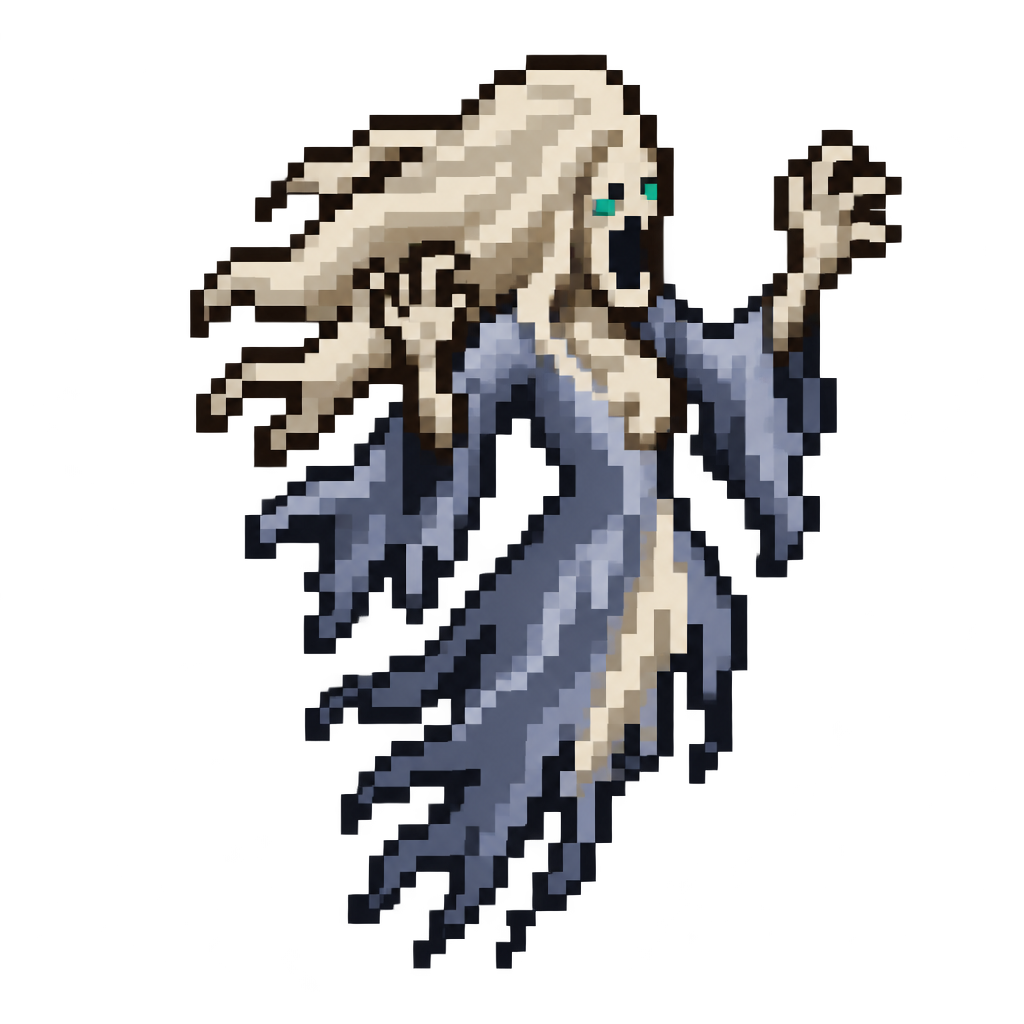
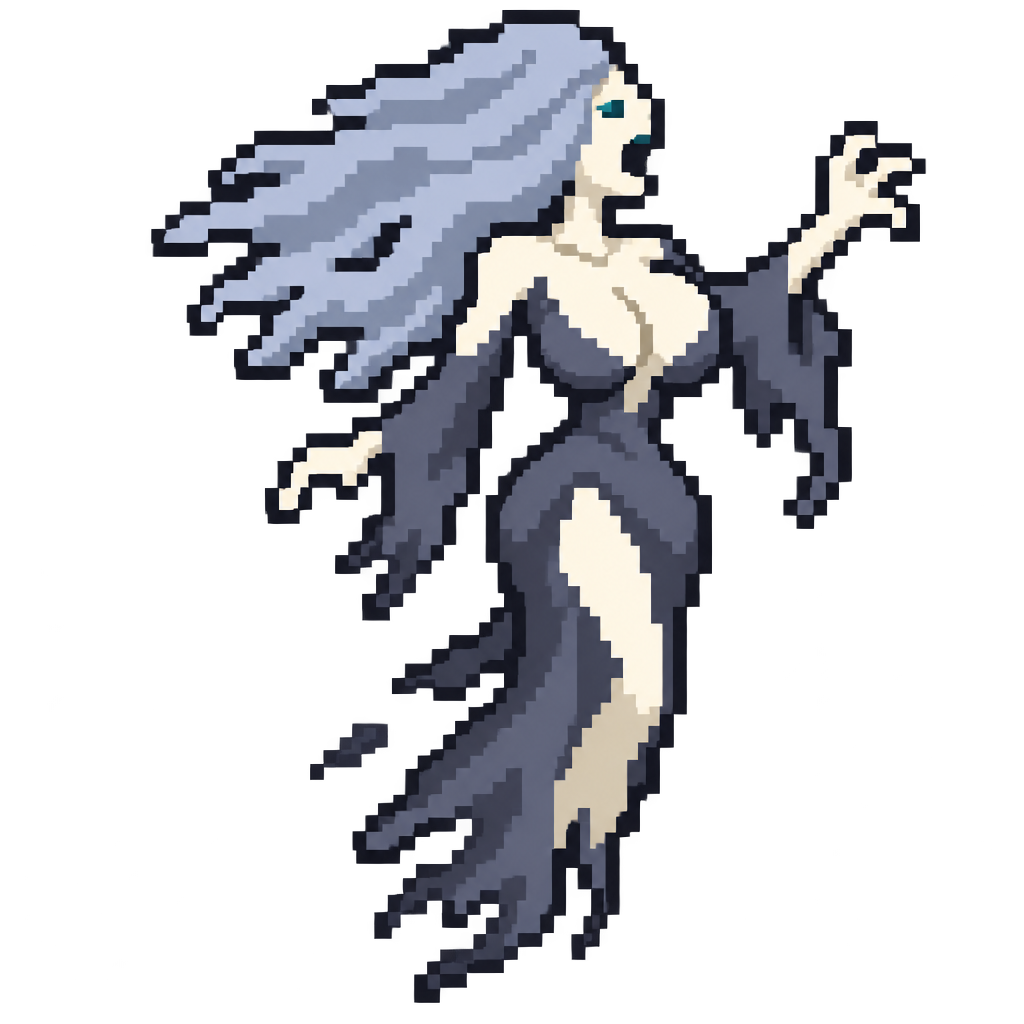
Banshee and Keening Lady figure redesign with glide strips; pixelate_source.py and prepare_sprite --ink-l for small detailed figures
The two female summons get the redesigned figure (silver-blue hair kept off
the chest, a slate gown) and glide strips with a 2 px bust bounce. Their
detailed sources are put on the art grid first (tools/pixelate_source.py)
and converted with a lower ink threshold (--ink-l 0.15) and no cleanup so the
neckline survives at 48 / 56 px. ART_BIBLE, GDD 15.0 and CLAUDE.md updated.

Claude-Session: https://claude.ai/code/session_01FLPv2RqRe5qVsRWxUhur7z

diff --git a/tools/pixelate_source.py b/tools/pixelate_source.py
@@ -1,0 +1,55 @@
+"""pixelate_source.py: put a detailed AI source onto the exact art grid before conversion.
+
+Usage (from the repo root):
+    python3 tools/pixelate_source.py <source image> <art height> <output png>
+    python3 tools/prepare_sprite.py <output png> <sprite key> [options]
+
+Why (figure redesign, Oct 2026; ART_BIBLE "Converting small figures"): an AI image draws a
+figure 900+ px tall, about 19 source px per art px for a 48 px summon. prepare_sprite.py votes
+each cell by material and coverage, which fattens thin shapes and drops one-pixel dark lines, so
+on the redesigned Banshee the neckline and the gap between the bust and the hair vanished and the
+torso became one bone-white blob. The ART_BIBLE notes that a source already drawn on the target
+grid converts almost losslessly. This tool makes one: binary alpha (ALPHA_CUT), crop to the
+opaque pixels, a premultiplied box downscale to (art height - 2) rows (prepare_sprite adds a 1 px
+outline top and bottom), then a BLOCK x nearest-neighbour blow-up, so every art pixel arrives as
+one flat block and the converter only snaps colours and draws the outline. Copy the untouched
+source to art_source/<key>.png afterwards (prepare_sprite archives the file it was given).
+"""
+
+import sys
+
+import numpy as np
+from PIL import Image
+
+ALPHA_CUT = 128  # Source alpha (0-255) from which a pixel is opaque (same rule as prepare_sprite).
+BLOCK = 16  # Output source px per art px (any whole number; 16 keeps files small).
+OUTLINE_ROWS = 2  # Rows prepare_sprite adds around the content (1 px outline top and bottom).
+
+
+def pixelate(src: str, height: int) -> Image.Image:
+    """The source `src` reduced to (height - OUTLINE_ROWS) art rows and blown up BLOCK x."""
+    a = np.array(Image.open(src).convert("RGBA"))
+    a[..., 3] = np.where(a[..., 3] >= ALPHA_CUT, 255, 0)
+    img = Image.fromarray(a)
+    img = img.crop(img.getbbox())
+    h = height - OUTLINE_ROWS  # Content rows (art px).
+    w = max(1, round(img.width * h / img.height))  # Content columns, aspect kept (art px).
+    pm = np.array(img).astype(float)
+    pm[..., :3] *= pm[..., 3:4] / 255.0  # Premultiply: transparent pixels add no colour.
+    small = np.array(Image.fromarray(pm.astype(np.uint8)).resize((w, h), Image.BOX)).astype(float)
+    alpha = small[..., 3:4]  # Box-averaged coverage (0-255).
+    rgb = np.where(alpha > 0, small[..., :3] * 255.0 / np.maximum(alpha, 1), 0)  # Un-premultiplied colour.
+    out = np.dstack([np.clip(rgb, 0, 255), np.where(alpha >= ALPHA_CUT, 255, 0)]).astype(np.uint8)
+    return Image.fromarray(out).resize((w * BLOCK, h * BLOCK), Image.NEAREST)
+
+
+def main() -> None:
+    if len(sys.argv) != 4:
+        sys.exit(__doc__)
+    src, height, out = sys.argv[1], int(sys.argv[2]), sys.argv[3]  # Source, art height (px), output.
+    pixelate(src, height).save(out)
+    print(f"{src} -> {out} ({height - OUTLINE_ROWS} content rows, {BLOCK} px blocks)")
+
+
+if __name__ == "__main__":
+    main()

diff --git a/tools/prepare_sprite.py b/tools/prepare_sprite.py
@@ -939,6 +939,7 @@ def prepare_anim(src: Path, anim_id: str, frames_n: int, grid: str, frame_px: in
 
 
 def main() -> None:
+    global INK_L  # --ink-l rebinds the module threshold read by grid_cells().
     parser = argparse.ArgumentParser(usage=__doc__)
     parser.add_argument("source", help="image, GIF or sprite sheet to process")
     parser.add_argument("key", help="sprite key (e.g. player/necromancer) or, with --anim, effect id")
@@ -953,6 +954,9 @@ def main() -> None:
     parser.add_argument("--method", choices=("ramp", "mode", "mean"), default=METHOD, help="grid mode: how a cell's colour is chosen")
     parser.add_argument("--ramps", default="", help="grid mode: comma-separated ramps allowed (default: the folder's faction set)")
     parser.add_argument("--no-levels", dest="levels", action="store_false", help="grid mode: no per-material lightness stretch")
+    parser.add_argument("--ink-l", type=float, default=INK_L,
+                        help="grid mode, ramp method: OKLab lightness (0-1) below which source pixels are linework "
+                             "(default INK_L; lower it for a dark cloth that must stay cloth, e.g. 0.15)")
     parser.add_argument("--no-outline", dest="outline", action="store_false", help="grid mode: no 1 px outline (tiles)")
     parser.add_argument("--inside-outline", action="store_true",
                         help="grid mode: turn the sprite's own edge into the outline (sources drawn at the target grid)")
@@ -963,6 +967,7 @@ def main() -> None:
     parser.add_argument("--allow-floor", action="store_true", help="grid mode: allow the floor colours (ground tiles, decals)")
     parser.add_argument("--out", default="", help="grid mode: write here instead of assets/sprites/<key>.png")
     args = parser.parse_args()
+    INK_L = args.ink_l  # --ink-l overrides the linework threshold for this run (read by grid_cells()).
     src = Path(args.source).expanduser()  # Image to process.
     key = args.key.strip("/")  # Sprite key or effect id.
     if args.anim:

diff --git a/tools/walk_cycle.py b/tools/walk_cycle.py
@@ -150,6 +150,9 @@ RIGS = {
     # The still's relic staff stays rigid down to row 90, where it meets the robe.
     "bosses/seraphine": dict(mode="robe", hip=70, rigid=[(68, 98, 0, 90)], sway=2, dip=1, bust=(42, 64, 44, 58, 3)),
     "bosses/seraphine_avatar": dict(mode="robe", hip=106, rigid=[], sway=2, dip=1, bust=(74, 97, 61, 78, 3)),
+    # The floating Banshee and Keening Lady (figure redesign): a glide like Seraphine's.
+    "summons/banshee": dict(mode="robe", hip=24, rigid=[], sway=2, dip=1, bust=(18, 29, 12, 18, 2)),
+    "summons/keening_lady": dict(mode="robe", hip=26, rigid=[], sway=2, dip=1, bust=(19, 30, 13, 19, 2)),
     "player/grave_herald": dict(mode="legs", hip=53, back=(0, 24), front=(24, 46), rigid=[], spread=1, lift=1, dip=1),
     # Later units with long screen time: the walking summon evolutions and two March soldiers.
     "summons/death_knight": dict(mode="legs", hip=41, back=(0, 25), front=(25, 54), rigid=[], spread=2, lift=2, dip=1),

diff --git a/docs/art/ART_BIBLE.md b/docs/art/ART_BIBLE.md
@@ -190,6 +190,19 @@ The tool turns any image into palette-correct grid art, but **what it can keep d
   blocks) come out as outline only. Repaint the lit column by hand (the recruit's shaft: the left
   column in wood brown, the right one kept as its outline).
 
+### Converting small figures (figure redesign, Oct 2026)
+
+A detailed AI figure is about 19 source px per art px at 48 px, and `prepare_sprite.py`'s cell vote
+fattens thin shapes and drops one-pixel dark lines: the redesigned Banshee's neckline and the gap
+between her bust and her hair vanished into one bone-white torso. Two fixes, used on the Banshee and
+the Keening Lady: `python3 tools/pixelate_source.py <source> <art height> <grid copy>` puts the source
+on the exact art grid first (premultiplied box downscale, one flat block per art pixel), and
+`prepare_sprite.py <grid copy> <key> --ink-l 0.15 --no-cleanup` keeps a dark slate gown as cloth
+(the default `INK_L` 0.27 turned it into outline ink) and keeps the single-pixel neckline (the check
+then warns about specks; the floors still pass). Keep the levels on for these two: with
+`--no-levels` the Keening Lady's dark gown failed every March and Sanctum floor. As with any
+pre-processed source, copy the untouched original back to `art_source/<key>.png`.
+
 ### Converting skin (figure redesign, Oct 2026)
 
 The `skin` ramp's lightest shade is the ivory `bone`, and on a source with a lot of skin (the
@@ -372,13 +385,13 @@ Process: `python3 tools/prepare_sprite.py <image> icons/shadow_bolt --art-height
 
 ## Walk cycles (`tools/walk_cycle.py`)
 
-**Status:** 51 strips: the necromancer and the 11 other characters, their 16 skins; Grand Inquisitor
-Seraphine and her Avatar of the Dawn (a glide: robe hem sway, bob and bust bounce; figure redesign,
+**Status:** 53 strips: the necromancer and the 11 other characters, their 16 skins; Grand Inquisitor
+Seraphine, her Avatar of the Dawn, the Banshee and the Keening Lady (glides: robe hem sway, bob and bust bounce; figure redesign,
 Oct 2026); the summons
 Warrior, Archer, Mage, Mender, Warder, Rogue, Risen and Bone Hound and the walking evolutions Death
 Knight, Gravebow, Shadow Reaper and Hellhound; the Covenant Recruit, Footman, Archer, Chaplain,
 Purifier, Shieldbearer, Halberdier, Templar and Banner Bearer. Every other unit (the other bosses, structures,
-the floating Banshee, Keening Lady, Frost Wraith, Winter Revenant and Lich, the airborne Gargoyle and
+the floating Frost Wraith, Winter Revenant and Lich, the airborne Gargoyle and
 Cathedral Horror, the Bishop, the giant summons, the Corpse Catapult and Ossuary Engine, the Inquisitor
 and the Sanctum kinds) keeps its still plus the engine motion. A skin's rig is derived from its character's
 (`SKINS` / `skin_rig()`: the same hip height above the feet, the columns moved by the offset between
@@ -417,7 +430,8 @@ overshoots as the body rises, rebounds, settles on the contact, so frame 0 stays
 are only moved within their column (nearest, inverse mapping), never recoloured, so the strip passes
 the same checks. Used on the Wither Witch (2 px; her box starts right of her near arm, which shook
 when it was inside), the Soulbinder (2 px), their Hyper skins (boxes derived by `skin_rig()`),
-Seraphine and her Avatar (3 px). A bounce plays only while the unit moves; standing shows the still.
+Seraphine and her Avatar (3 px), and the floating Banshee and Keening Lady (2 px, glide strips like
+Seraphine's). A bounce plays only while the unit moves; standing shows the still.
 
 **Strip layout (the engine contract).** `assets/sprites/<key>_walk.png` = 8 frames side by side, no
 gaps, **each exactly the still's width and height** (frame i at x = i x W), feet on the same bottom row
@@ -546,8 +560,8 @@ The undead army: bone, cold grey and teal soul fire, one accent per class, **no 
 | `bone_colossus.png` | Bone Colossus (Abomination evolution): a towering hulk of moss-grey corpse flesh armoured in fused bone plates: a ribbed bone breastplate, spiked bone pauldrons, a horned bone helm with teal eyes, a bone-slab club arm | 100 | done |
 | `bone_hound.png` | Bone Hound: a lean, low skeletal hound seen from the side, long ribcage, thin legs, a long snouted skull with a teal eye, a curled bone tail; small, fast, feral | 32 | done |
 | `hellhound.png` | Hellhound (Bone Hound evolution): the hound charred dark brown with glowing fire cracks along the ribs, a mane of flame along the neck and back, burning eyes; bigger and fiercer | 40 | done |
-| `banshee.png` | Banshee: a legless floating spectre in a pale bone-white veil that frays into wisps, long white hair streaming back, arms raised, a dark wide-open wailing mouth, faint teal glow | 48 | done |
-| `keening_lady.png` | Keening Lady (Banshee evolution): a taller, regal banshee in a flowing dark cold-grey gown, a bone circlet with a teal gem, a pale screaming face, teal sound ripples | 56 | done |
+| `banshee.png` | Banshee: a floating spectre with an exaggerated hourglass figure (a very large bust, cinched waist, wide hips; figure redesign, Oct 2026), pale bone-white skin, a fitted low-necked slate gown with a high slit that frays into wisps below the hips, long silver-blue hair streaming back (kept off her chest so the bust reads at 48 px), arms out, mouth open mid-wail, teal eyes. Converted through `pixelate_source.py`, then `--ink-l 0.15 --no-cleanup` | 48 | done |
+| `keening_lady.png` | Keening Lady (Banshee evolution): a taller, regal banshee with the same redesigned figure, a fitted low-necked dark cold-grey gown with a high slit fraying into wisps, a bone circlet with a teal gem, silver-blue hair, a pale screaming face, teal sound ripples. Converted like the Banshee | 56 | done |
 | `corpse_catapult.png` | Corpse Catapult: a squat siege engine of old coffin wood (brown) and bone beams on two bone wheels, sinew ropes, a diagonal throwing arm with a skull boulder (teal eyes) in its cup | 56 | done |
 | `ossuary_engine.png` | Ossuary Engine (Corpse Catapult evolution): a bigger siege engine of ribcages and spines, fire-lit sinew, a triple cup of three burning skulls | 72 | done |
 

diff --git a/docs/GDD.md b/docs/GDD.md
@@ -1562,7 +1562,7 @@ Decisions made since the source was written are recorded in 15.0; everything bel
 | — | Dread Rally raises the army | Owner decision: "the ultimate should res your whole army". On cast, every missing unit of every owned class is queued for an immediate spawn through `HordeDirector.raise_all_missing()` (the Call of the Grave path), rising beside the necromancer at full HP with the rally buff (`PlayerAbilityData.RALLY_RAISES_ARMY`); stat `rally_raised`. |
 | — | Level-up weight of later items | Owner decision ("I rarely ever see the newer additions"): every later spell, summon class and passive (`shared_card_pool`) weighs `LevelUpData.WEIGHT_NEW_LATER` = 0.5 as a NEW card, replacing three fixed pools (spells 2.0, classes 1.5, passives 2.0 split between every unowned later item) that had fallen to ~0.2 each (~2% of hands). Measured opening hands: each later item ~4% of hands (was ~2%), 74% of hands hold one (was 48%), about a third to a half of NEW cards are later items. Side effect: a build that takes only the original five classes (the army bot) gets fewer upgrades, so on the March it fields a slightly smaller army (Vael 11/16 instead of 16/16); a player who takes later items does not pay this. Autotest line `level-up offers`. Supersedes the pool weights in "Card pool with many summon classes" and "Combined balance pass". |
 | — | Later summons that hit too softly | Owner: "increase the usefulness of the new summons". Each later class forced into the army bot's build on the March (8 seeds): damage per unit vs a core unit Gargoyle 183%, Corpse Catapult 179%, Abomination 178%, Rogue 141%, Frost Wraith 55%, Bone Hound 43% (pack ~half a core class), Banshee 23% (support). Base damage: Frost Wraith 12 → 18 (now 84%), Bone Hound 7.5 → 12 (71%, a 12-hound pack above a core class), Banshee 7 → 14 (41%, plus the Dirge); their evolutions multiply the base. Vael with each forced: Frost Wraith 6 → 7/8, Bone Hound 6 → 7/8, Banshee 6 → 8/8 (level at 17:00 53 → 61). |
-| — | Figure redesign of the female characters | Owner request (Oct 2026): "make the female characters hotter", with "big titties and big hips" and "jiggle physics", then "go even bigger on the breasts, they should be eye popping". Applies to the female characters and the one female boss: the **Wither Witch** and the **Soulbinder** (and their Hyper skins, Thorn-Crowned Witch and Radiant Soulbinder) and **Grand Inquisitor Seraphine** (still, cast pose, Avatar of the Dawn, Avatar cast). All eight sprites redrawn (`gen_image.py` with the old sprite as reference, then the new still as reference for each variant; ~$0.53) with an exaggerated hourglass figure: a very large bust, a cinched waist, wide hips, fitted low-necked outfits with a high slit; **fully clothed**, same identity, colours, props and pose; the Wither Witch now stands tall instead of crooked. Seraphine is converted with `--no-levels` after `tools/skin_cap.py` (her skin highlights had snapped to ivory; ART_BIBLE "Converting skin"). **Jiggle:** a procedural **bust bounce** in `tools/walk_cycle.py` (rig key `bust`, `BUST_BOUNCE`, `_bounce()`): the bust box warps each walk frame like a damped spring (lag, overshoot, rebound, settle), up to 2 px on the characters and 3 px on Seraphine; pixels are moved only, never recoloured; the Witch's box stops short of her near arm. Seraphine and her Avatar gain **glide strips** (`bosses/seraphine_walk`, `seraphine_avatar_walk`: robe sway, bob, bounce), which `SpriteBank.draw()` already plays for any unit with a strip; cast poses keep their stills. Visual only: no gameplay, RNG or save change, so same-seed autotest summaries are unchanged. The Banshee and Keening Lady (female summons) were not in this pass. |
+| — | Figure redesign of the female characters | Owner request (Oct 2026): "make the female characters hotter", with "big titties and big hips" and "jiggle physics", then "go even bigger on the breasts, they should be eye popping". Applies to the female characters and the one female boss: the **Wither Witch** and the **Soulbinder** (and their Hyper skins, Thorn-Crowned Witch and Radiant Soulbinder) and **Grand Inquisitor Seraphine** (still, cast pose, Avatar of the Dawn, Avatar cast). All eight sprites redrawn (`gen_image.py` with the old sprite as reference, then the new still as reference for each variant; ~$0.53) with an exaggerated hourglass figure: a very large bust, a cinched waist, wide hips, fitted low-necked outfits with a high slit; **fully clothed**, same identity, colours, props and pose; the Wither Witch now stands tall instead of crooked. Seraphine is converted with `--no-levels` after `tools/skin_cap.py` (her skin highlights had snapped to ivory; ART_BIBLE "Converting skin"). **Jiggle:** a procedural **bust bounce** in `tools/walk_cycle.py` (rig key `bust`, `BUST_BOUNCE`, `_bounce()`): the bust box warps each walk frame like a damped spring (lag, overshoot, rebound, settle), up to 2 px on the characters and 3 px on Seraphine; pixels are moved only, never recoloured; the Witch's box stops short of her near arm. Seraphine and her Avatar gain **glide strips** (`bosses/seraphine_walk`, `seraphine_avatar_walk`: robe sway, bob, bounce), which `SpriteBank.draw()` already plays for any unit with a strip; cast poses keep their stills. Visual only: no gameplay, RNG or save change, so same-seed autotest summaries are unchanged. **Follow-up (owner: "implement all that stuff"):** the female summons **Banshee** and **Keening Lady** get the same figure (silver-blue hair kept off the chest, a slate gown, so the bust reads at 48 / 56 px; converted through `tools/pixelate_source.py` and `prepare_sprite.py --ink-l`, ART_BIBLE "Converting small figures") and glide strips with a 2 px bounce (`summons/banshee_walk`, `keening_lady_walk`); their class icons (faces) are unchanged. |
 
 ### 15.1 Core Rules and Run Structure
 

diff --git a/CLAUDE.md b/CLAUDE.md
@@ -365,14 +365,15 @@ tiny tweaks.
    `main` only after the owner has seen its recorded video.
 3. **Art pass: done (Oct 2026)** (GDD §15.0 "Art pass (true pixel art)" and the rows after it). Every unit,
    character, skin, boss, structure, pickup, projectile, icon, obstacle (both orientations), zone floor, decal, effect
-   strip, walk cycle (51 units), the UI kit and the NECROPATHY logo are pixel art at 1 art px = 1 screen px through the
+   strip, walk cycle (53 units), the UI kit and the NECROPATHY logo are pixel art at 1 art px = 1 screen px through the
    sharp-pixel shader; fonts Jersey 10 (all UI text, descriptions included) + Jacquard 24 (titles, banners), sized
    by the `UiTheme.Tier` type tiers (GDD §15.0 "Type tiers"). Tools: `tools/gen_image.py` (API
    generation, cost ledger `docs/art/generation_ledger.csv`), `prepare_sprite.py`, `art_check.py`, `make_tile.py`,
-   `walk_cycle.py`, `ui_kit.py`, `skin_cap.py`. Boss attack poses are in (`boss_pose_data.gd`). **Figure redesign** (owner
+   `walk_cycle.py`, `ui_kit.py`, `skin_cap.py`, `pixelate_source.py`. Boss attack poses are in (`boss_pose_data.gd`). **Figure redesign** (owner
    request, GDD §15.0 "Figure redesign of the female characters"): the Wither Witch, the Soulbinder, their Hyper skins and
-   Seraphine (all four sprites) have exaggerated hourglass figures (fully clothed) and a procedural bust bounce in their walk
-   / glide strips (`walk_cycle.py` rig key `bust`); Seraphine and her Avatar have glide strips. Possible later polish: attack poses for regular units, arm swing, more effect hooks.
+   Seraphine (all four sprites), the Banshee and the Keening Lady have exaggerated hourglass figures (fully clothed) and a procedural bust bounce in their walk
+   / glide strips (`walk_cycle.py` rig key `bust`); Seraphine, her Avatar, the Banshee and the Keening Lady have glide
+   strips. Small detailed figures go through `pixelate_source.py` first. Possible later polish: attack poses for regular units, arm swing, more effect hooks.
 4. **Web build** (owner decision, after the art is done; GDD §15.0 "Web build after the art"): a
    no-threads Godot Web export for desktop browsers, the audio synthesis load checked, Quit hidden,
    and a CI job that publishes it for playtesters. The menu theme is already Web-ready (on the Web it
